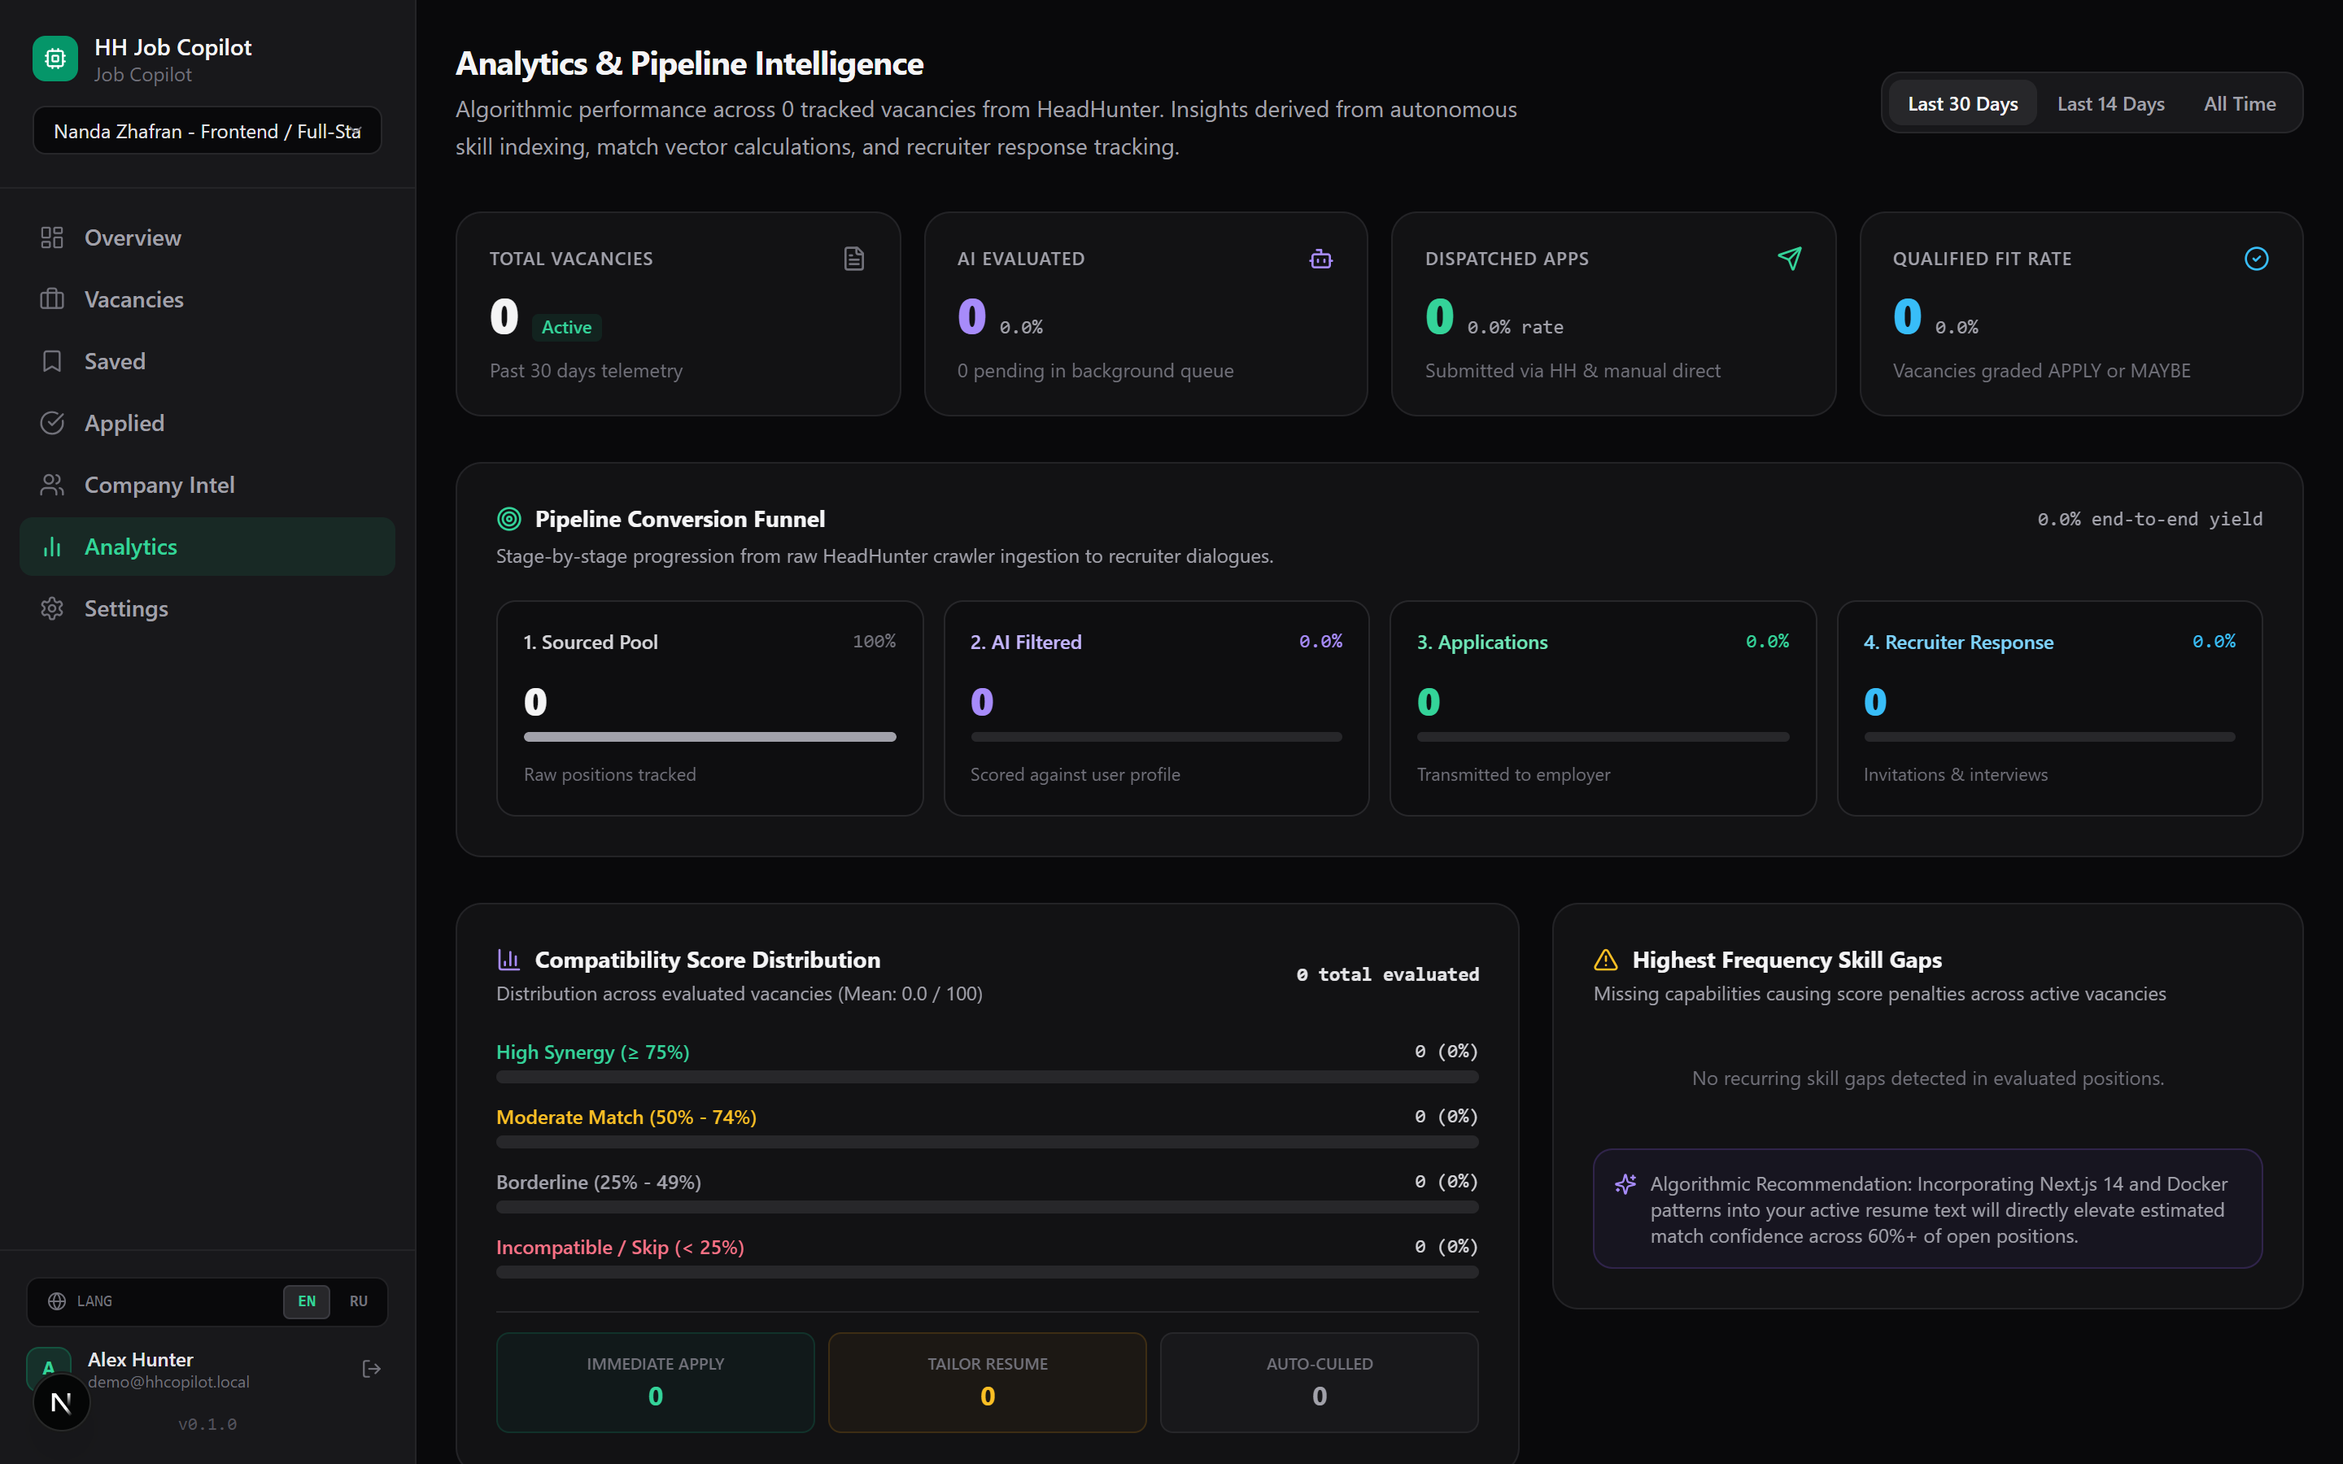
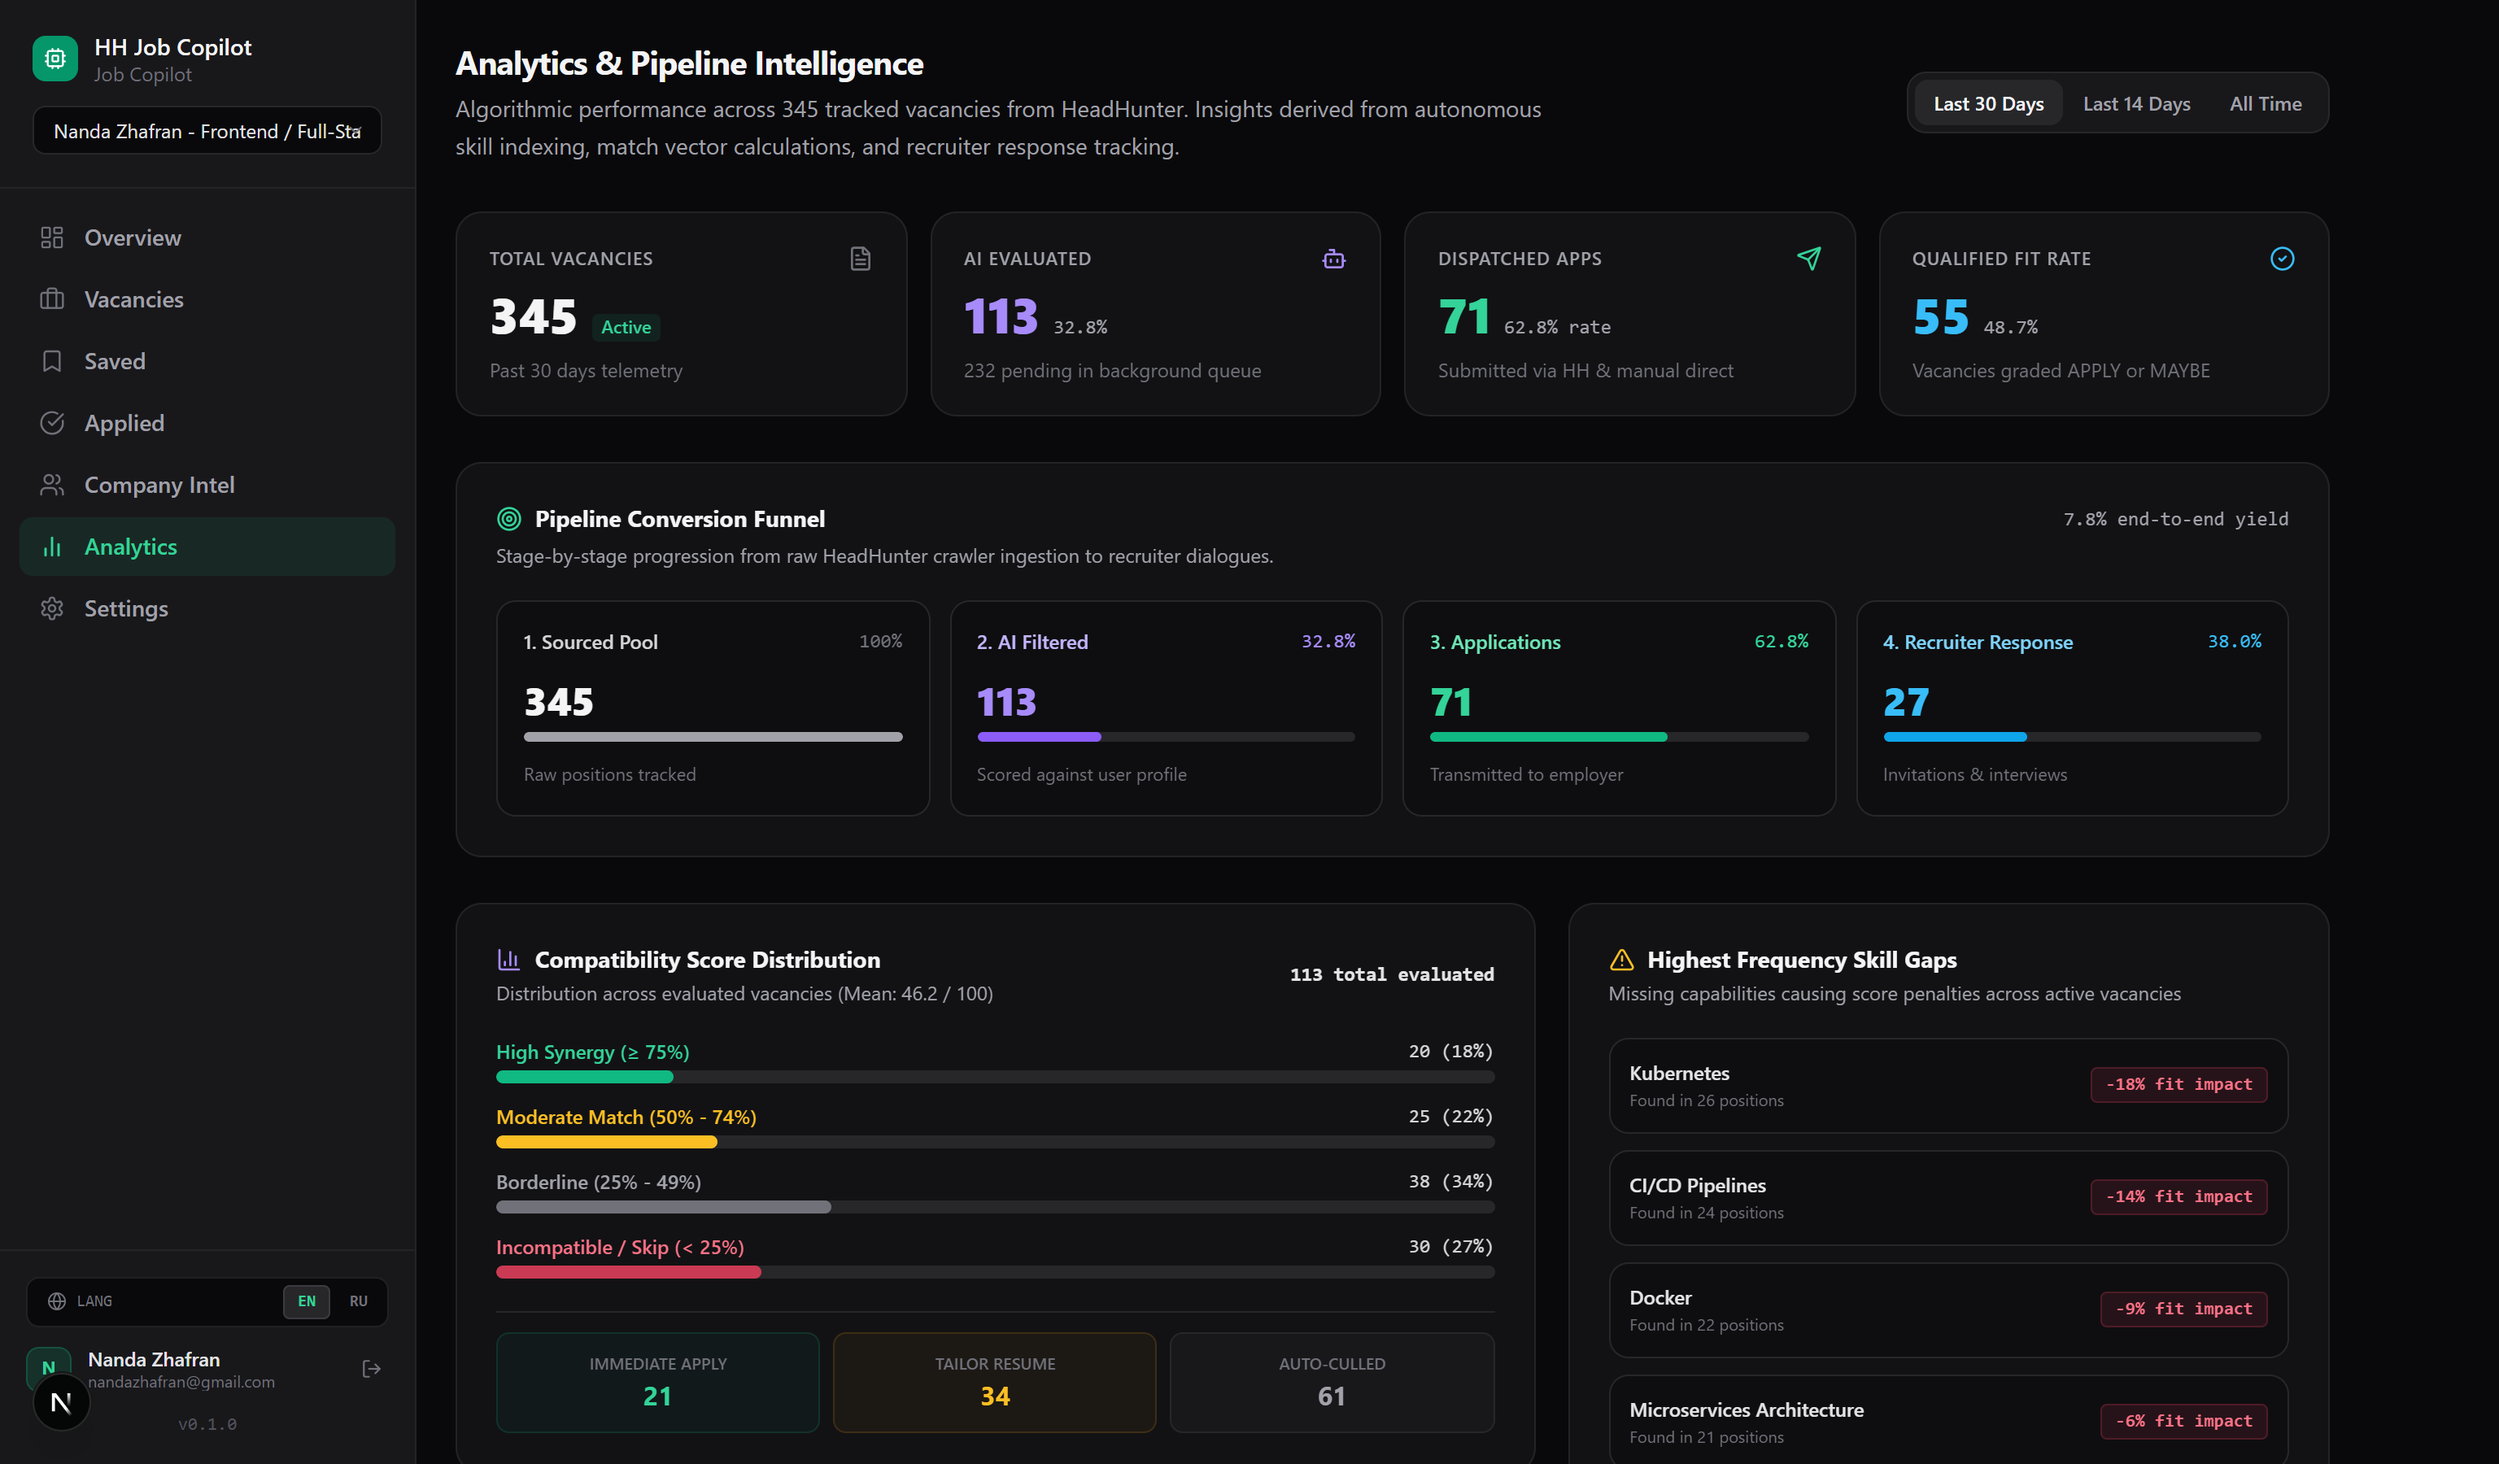
feat(analytics): populate realistic 30d telemetry and update showcase screenshots

diff --git a/README.coming-soon.md b/README.coming-soon.md
@@ -41,12 +41,21 @@ Browse curated vacancies on the left panel while viewing deep compatibility scor
 
 ---
 
-### 3. Recruiter Intelligence & Company OSINT
+### 3. Pipeline Analytics & Skill Gap Insights
+Track application attrition across the conversion funnel, visualize compatibility distribution, and discover recurring skill gaps to optimize candidate profiles.
+
+<div align="center">
+  <img src="screenshots/05_analytics_funnel.png" alt="Analytics Funnel & Skill Gaps" width="90%" />
+</div>
+
+---
+
+### 4. Recruiter Intelligence & Company OSINT
 Bypass the HR black hole. Automatically uncover hiring managers and tech leads via domain OSINT, with tailored cold-outreach drafting adapted to your portfolio.
 
 ---
 
-### 4. Zero-Setup Local Execution & BYOK
+### 5. Zero-Setup Local Execution & BYOK
 - **No mandatory heavy Docker** — run simply with `npm run dev` or a 1-click `setup.bat`.
 - **Bring Your Own Key (BYOK)** — support for DeepSeek (V3/R1), Claude 3.7, OpenAI, Gemini, and local offline models via Ollama.
 - **Privacy & Security** — Self-hosted on your machine; credentials encrypted at rest with AES-256-GCM.
@@ -58,6 +67,7 @@ Bypass the HR black hole. Automatically uncover hiring managers and tech leads v
 - [x] **Core Crawler & HH RSS Ingestion Pipeline**
 - [x] **Multi-Model LLM Reasoning Engine (DeepSeek / Gemini / Groq / Ollama)**
 - [x] **Chrome Extension for 1-Click Session Cookie Sync**
+- [x] **Pipeline Conversion Funnel & Skill Gap Telemetry**
 - [x] **Telegram Real-time Alert Bot**
 - [ ] **Closed Beta Dogfooding & Edge-case Hardening** *(In Progress)*
 - [ ] **🎉 Public Source Code Release (October 24–26, 2026)**
